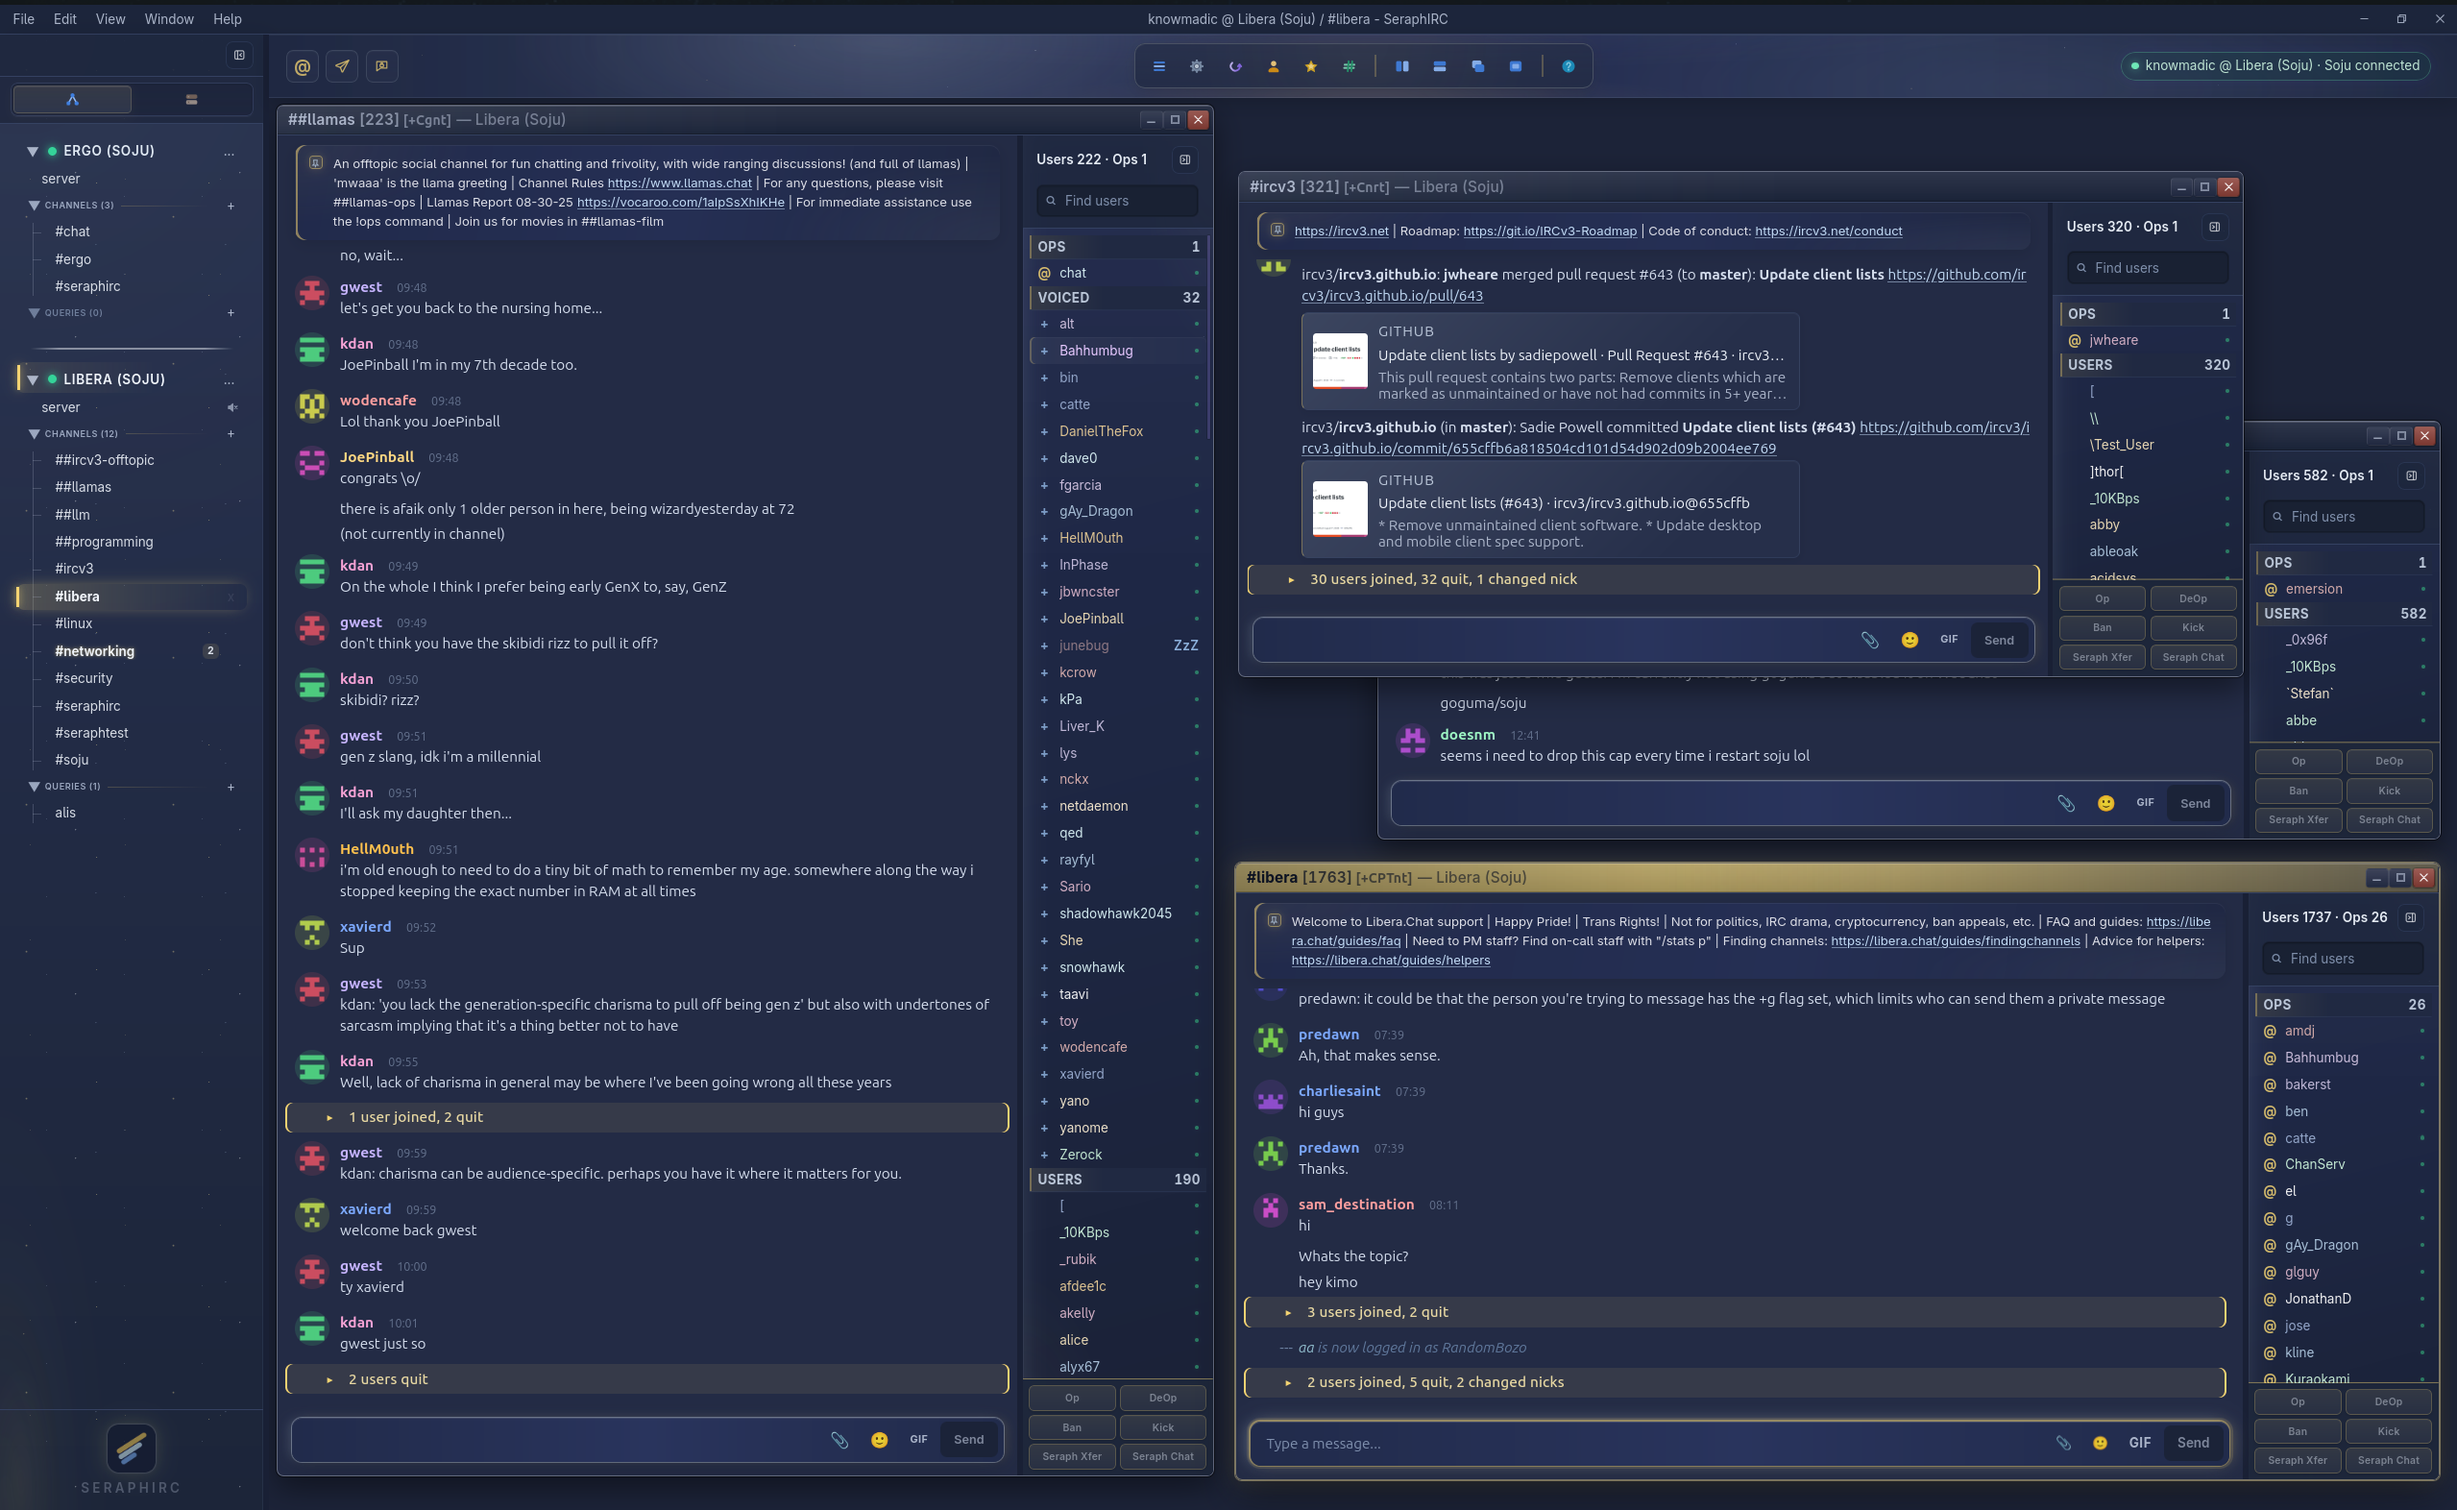
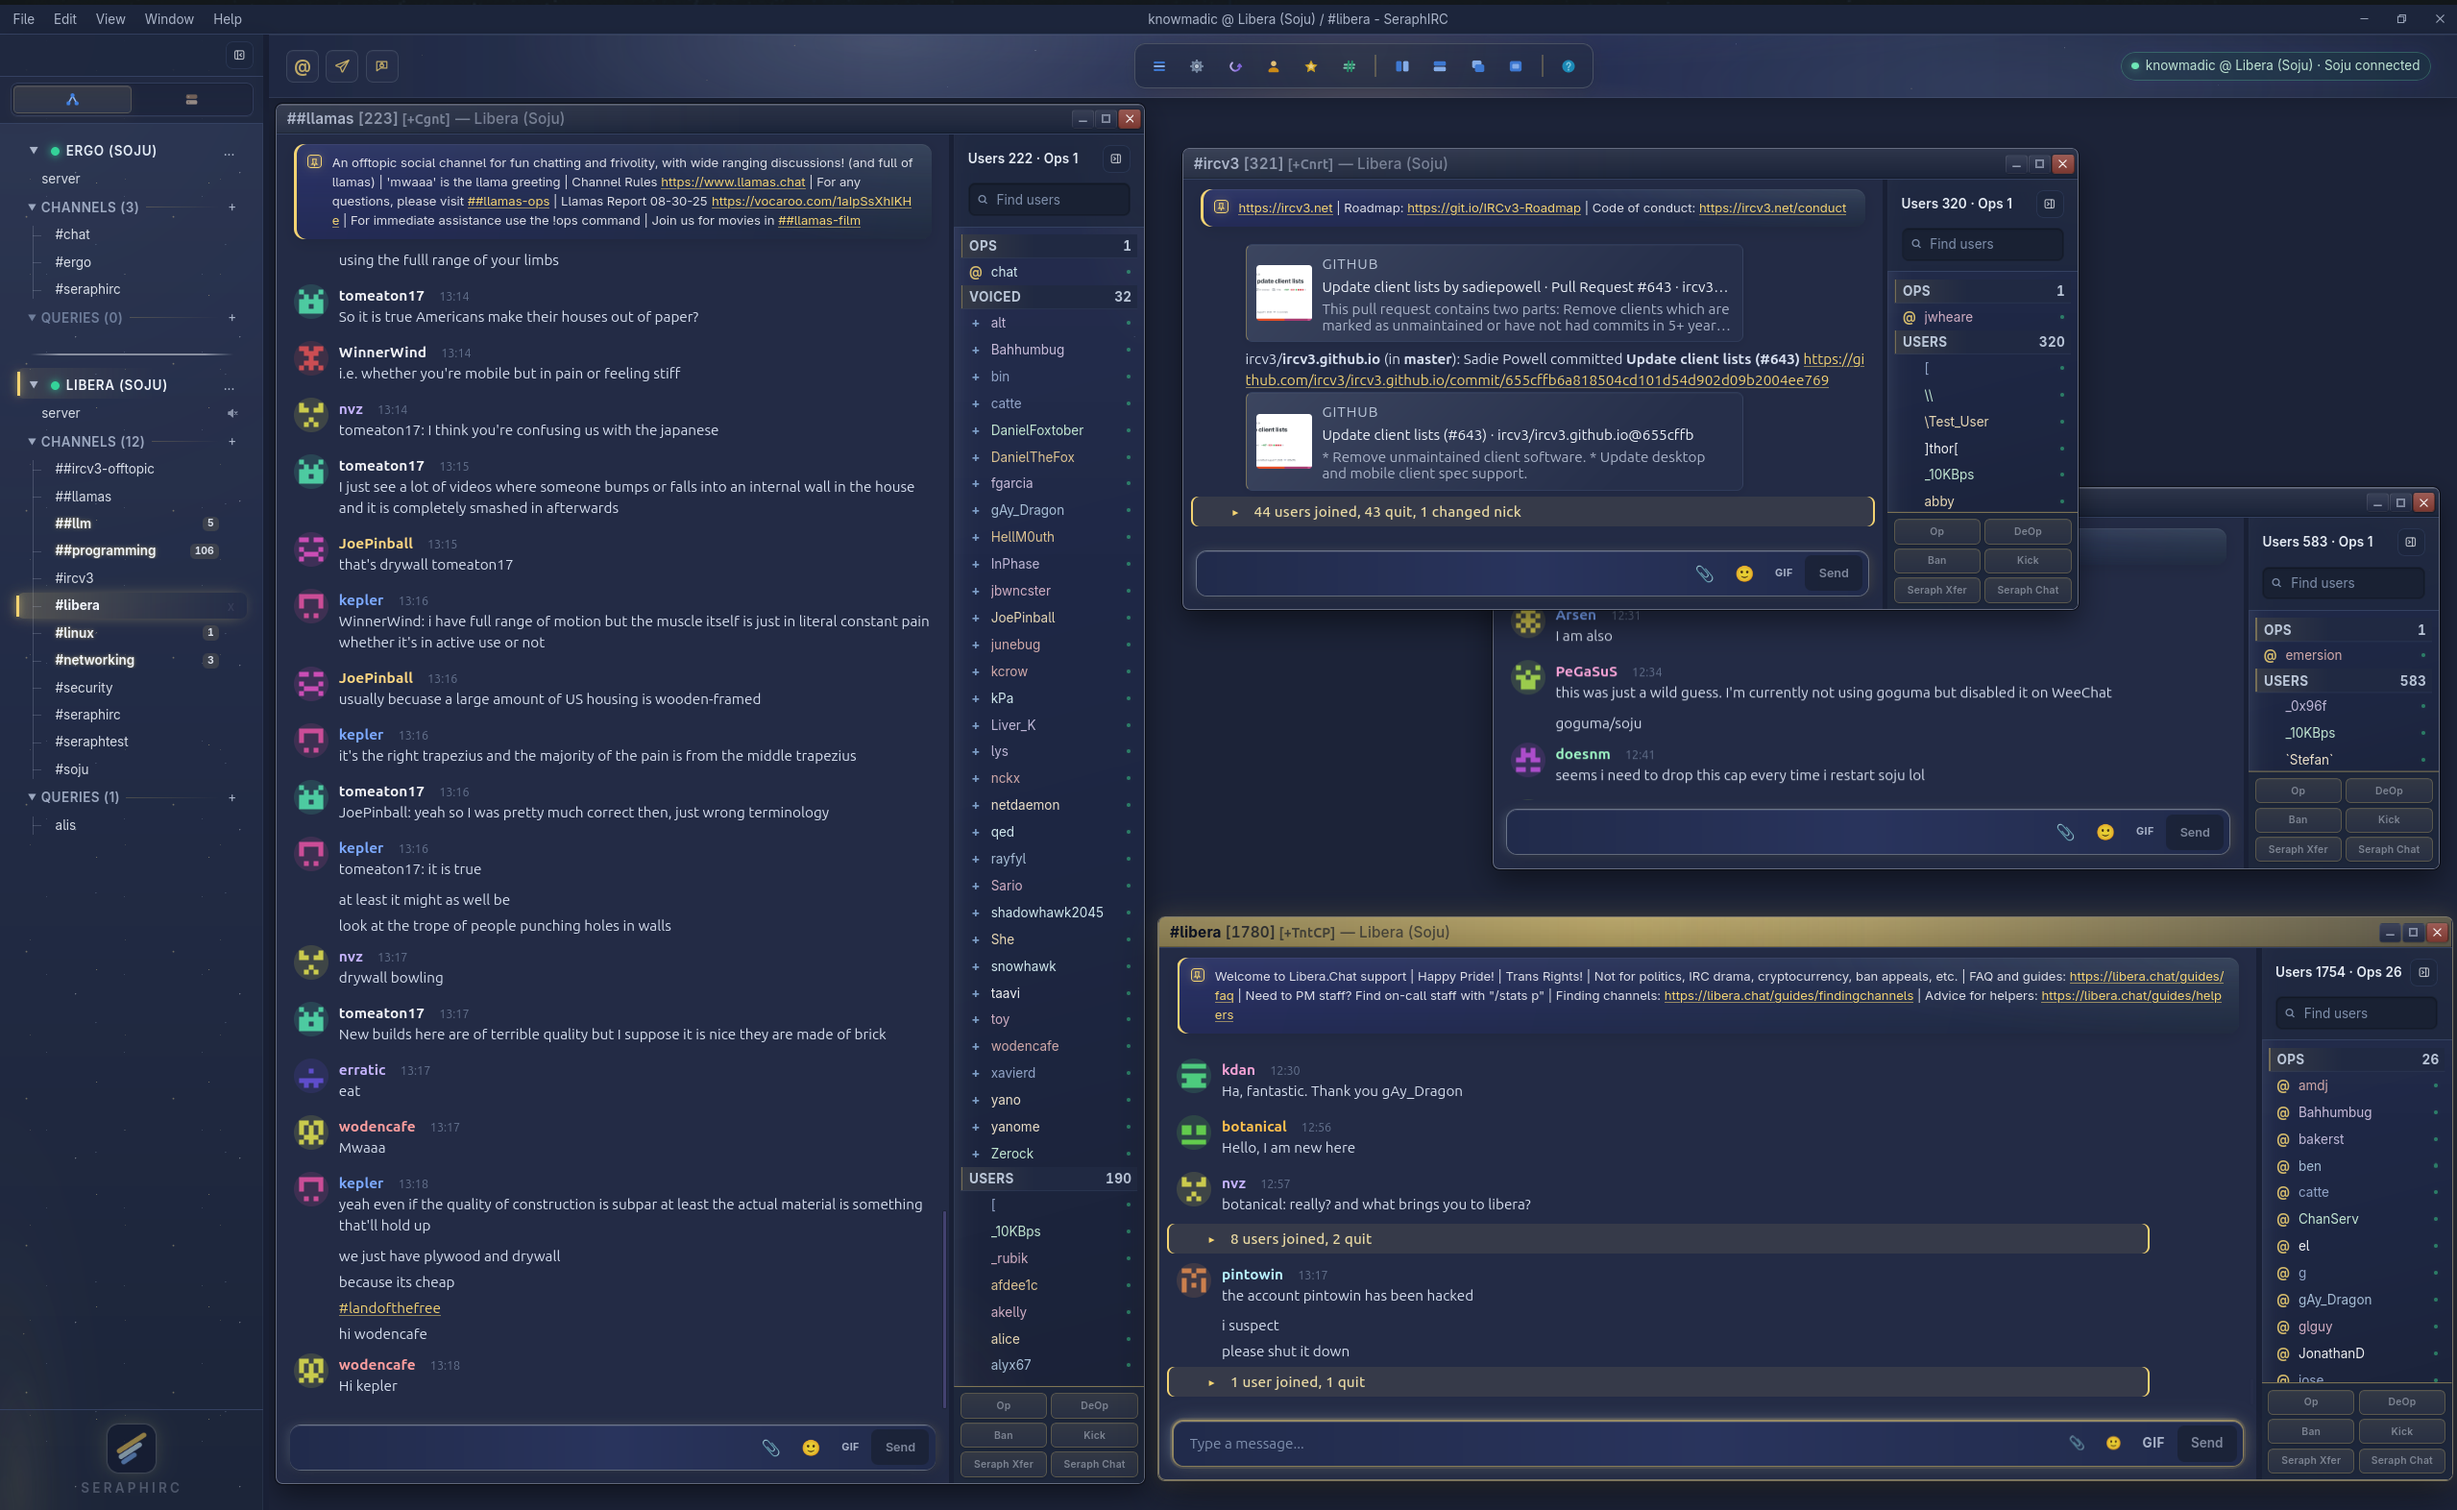
5.0.33-alpha notes, new screenshot

diff --git a/index.html b/index.html
@@ -1101,6 +1101,7 @@
           <div class="changelog-bar">
             <label class="changelog-label" for="changelog-select">Version</label>
             <select id="changelog-select" class="changelog-select" aria-label="Release version">
+              <option value="5.0.33-alpha">5.0.33-alpha</option>
               <option value="5.0.32-alpha">5.0.32-alpha</option>
               <option value="5.0.31-alpha">5.0.31-alpha</option>
               <option value="5.0.30-alpha">5.0.30-alpha</option>
@@ -1135,7 +1136,14 @@
             <span class="changelog-date" id="changelog-date">Aug 8, 2026</span>
           </div>
 
-          <article class="release" data-version="5.0.32-alpha" data-date="Aug 8, 2026">
+          <article class="release" data-version="5.0.33-alpha" data-date="Aug 8, 2026">
+            <ul class="release-notes">
+              <li><b>Seraph theme, dialed in:</b> the theme gets another round of tuning to bring its contrast back to a comfortable middle ground, so nothing reads as too flat or too harsh.</li>
+              <li><b>Bigger channel and query headers:</b> conversation headers are larger and now scale along with your font size setting. The old headers were small and hard to read, so this is a deliberate accessibility improvement.</li>
+            </ul>
+          </article>
+
+          <article class="release" data-version="5.0.32-alpha" data-date="Aug 8, 2026" hidden>
             <ul class="release-notes">
               <li><b>A pass over the themes:</b> Seraph now matches the app icon with a softer gold and a cleaner off-white, and Gruvbox, Monokai, Dracula, Nord and Ocean Breeze have had their washed-out, hazy patches cleared up. The same colors carry over to the mobile app.</li>
               <li><b>Mobile polish:</b> link previews are now drawn the same way for every site instead of stretching out of shape on posts with a lot of detail, and the channel header, the starfield, and the network list on /LIST all got a tidy-up.</li>
